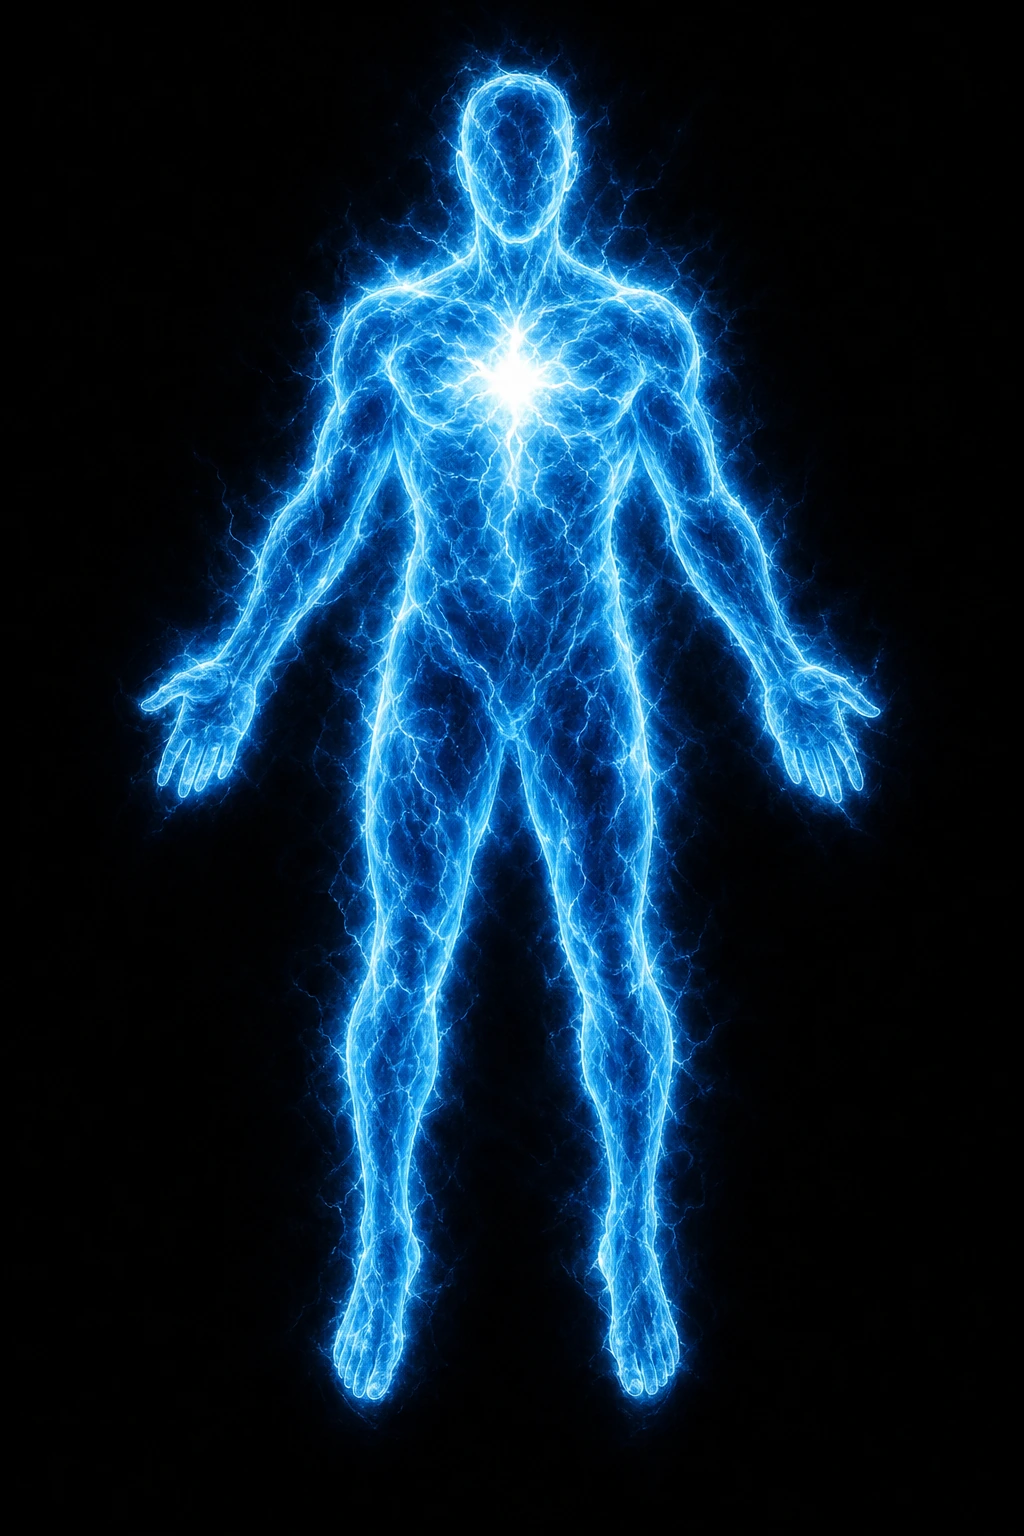
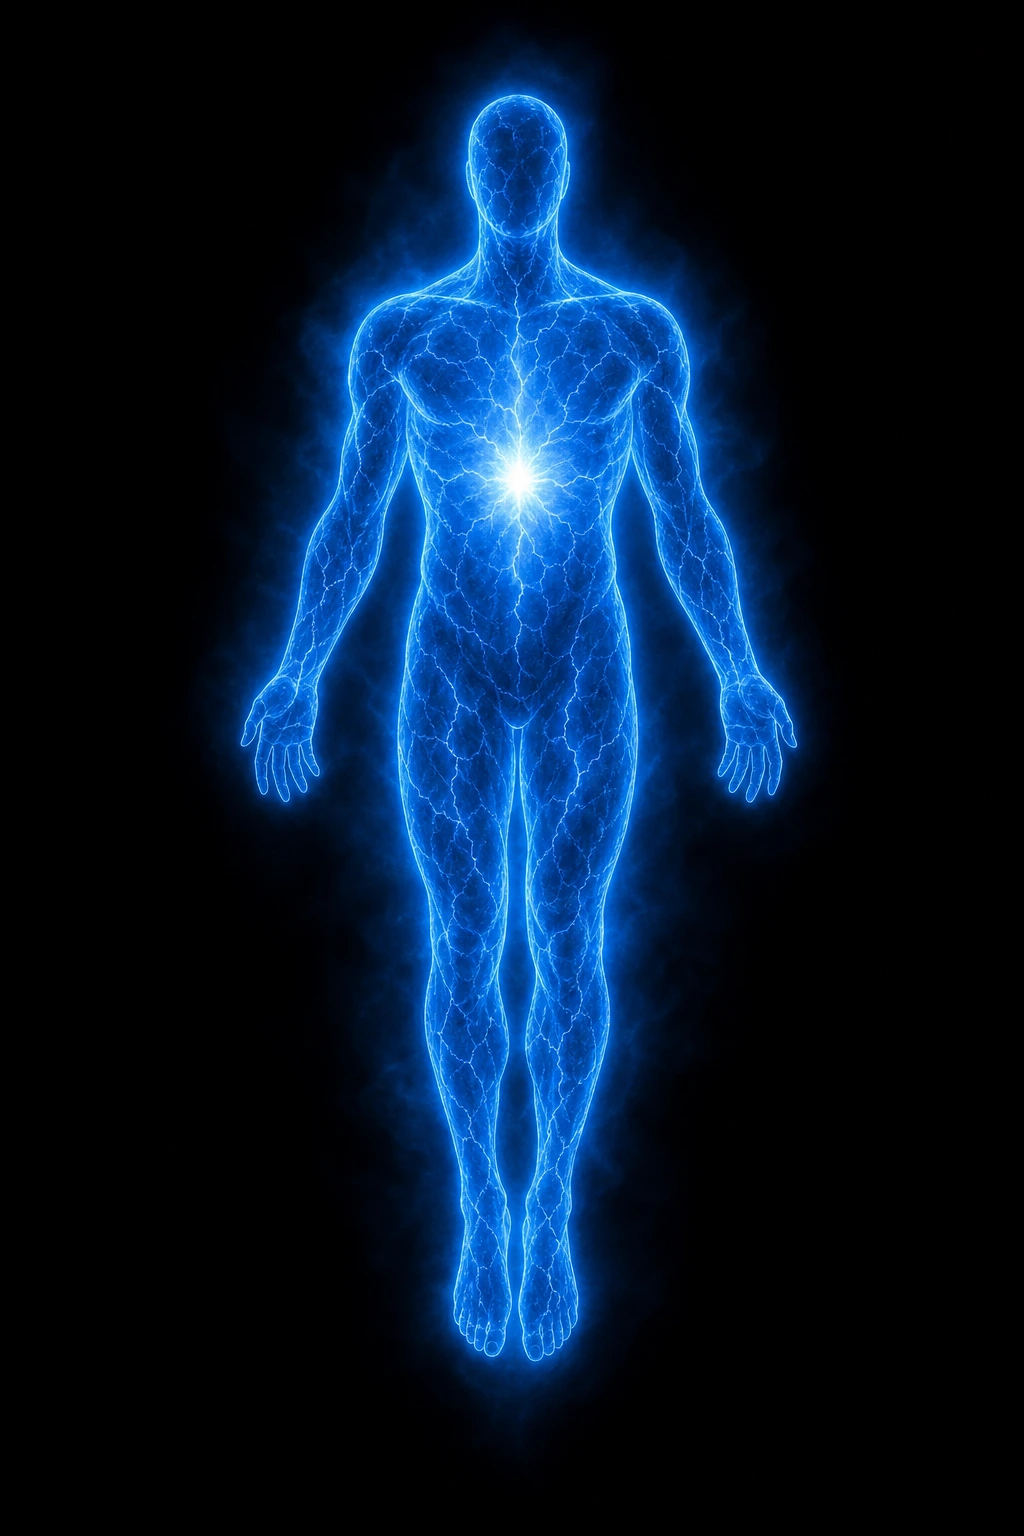
Single solar-plexus core on phantom body
Regenerate asset with one chest light source only; remove lower
abdominal hotspot. Align CSS chest halo to solar plexus at 33%.

diff --git a/src/components/PhantomEntity.css b/src/components/PhantomEntity.css
@@ -226,7 +226,7 @@
  */
 .phantom-entity__chest-light {
   position: absolute;
-  top: 37%;
+  top: 33%;
   left: 50%;
   width: 42%;
   aspect-ratio: 1.15;
